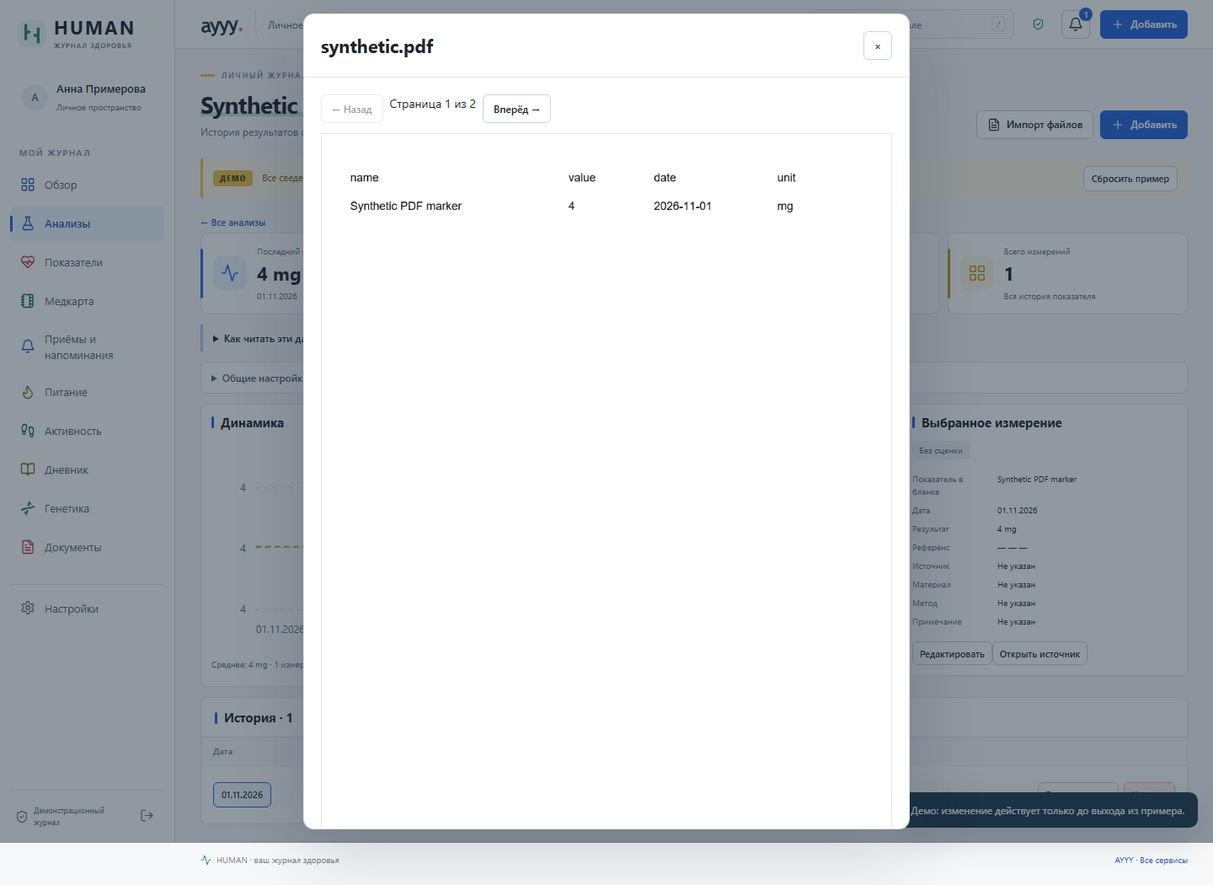
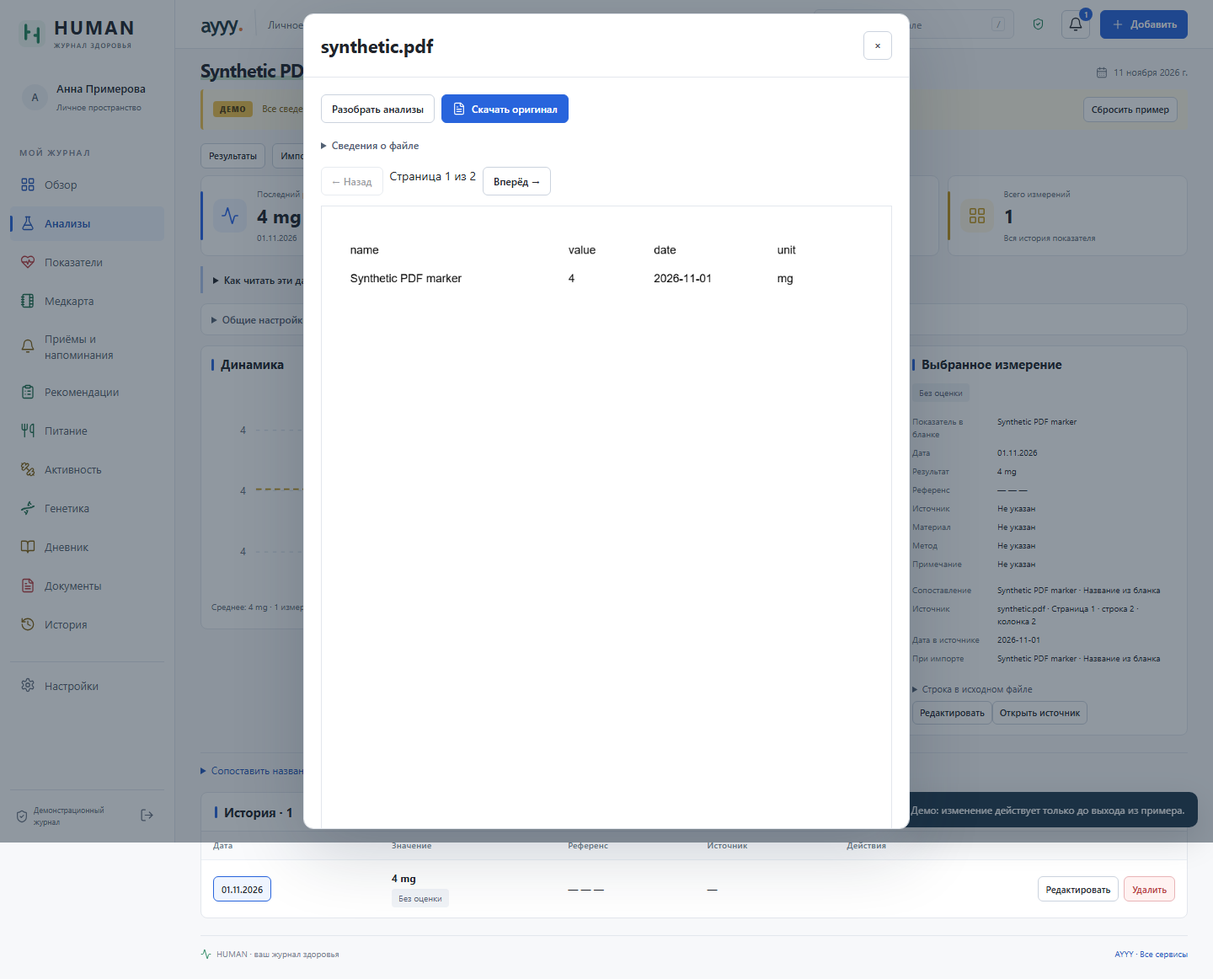
feat(health): import lab results from saved documents

diff --git a/health/import.js b/health/import.js
@@ -4,13 +4,14 @@
  const A=window.HumanAnalytes,T=window.HumanImportTable;
  const fields=[['name','Показатель'],['value','Результат'],['date','Дата'],['unit','Единица'],['low','Референс от'],['high','Референс до'],['source','Лаборатория'],['material','Материал'],['method','Метод'],['notes','Примечание']];
  const aliases={name:['name','показатель','название','анализ'],value:['value','result','результат','значение'],date:['date','дата'],unit:['unit','единица','ед.изм.'],low:['low','min','мин','нижняя граница'],high:['high','max','макс','верхняя граница'],source:['source','laboratory','источник','лаборатория'],material:['material','материал'],method:['method','метод'],notes:['notes','комментарий','примечание']};
- async function open(files,{V,M,dialog,commit,getDoc,isCurrent=()=>true,persistence,saved,notify}){
+ async function open(files,{V,M,dialog,commit,getDoc,isCurrent=()=>true,persistence,saved,sourceDocumentId,notify}){
   if(!files.length&&!saved?.entries.length)return;
   if(files.length>100||files.reduce((size,file)=>size+file.size,0)>128*1024*1024)
    throw Error('Выберите до 100 файлов общим размером до 128 МиБ.');
   const identity=getDoc()?.id;if(!identity)throw Error('Сначала откройте журнал.');
-  const entries=saved?saved.entries.map(({id,name,bytes,parsed,editor})=>parsed
-   ?{id,name,original:{...parsed,name,bytes},editor}:{id,name,file:new File([bytes],name)}):files.map(file=>({id:M.id(),name:file.name,file}));
+  const entries=saved?saved.entries.map(({id,name,bytes,parsed,editor,sourceDocumentId})=>parsed
+   ?{id,name,sourceDocumentId,original:{...parsed,name,bytes},editor}:{id,name,sourceDocumentId,file:new File([bytes],name)}):
+   files.map(file=>({id:M.id(),name:file.name,file,sourceDocumentId}));
   const single=entries.length===1,controller=new AbortController();
   let checkpoint=saved?.checkpoint??null,persisting=false,draftNotice=saved?'Черновик открыт с этого устройства.':'';
   const body=document.getElementById('health-dialog-body');dialog.classList.add('health-import-dialog');
@@ -26,7 +27,7 @@
   const pending=()=>entries.filter(entry=>entry.done==null&&!entry.skipped);
   function draftMetadata(entry){
    const source=entry.original;
-   return {parsed:source?{hash:source.hash,extension:source.extension,tables:source.tables}:null,
+   return {sourceDocumentId:entry.sourceDocumentId,parsed:source?{hash:source.hash,extension:source.extension,tables:source.tables}:null,
     editor:entry.capture?.()??entry.editor??null};
   }
   async function updateCheckpoint(entry,changes=null){
@@ -121,6 +122,13 @@
   let drafts=[],busy=false;
   entry.editor=null;
   const editorState=()=>({sheet,header,mapping:{...mapping},layout,order,fallbackDate,manualMode,manualIds:[...manualIds]});
+  function sourceDocument(doc){
+   if(!entry.sourceDocumentId)return doc.documents.find(file=>file.sha256===original.hash);
+   const selected=doc.documents.find(file=>file.id===entry.sourceDocumentId);
+   if(!selected||(selected.sha256!==original.hash&&!(selected.sha256==null&&typeof selected.data==='string')))
+    throw Error('Выбранный документ удалён или изменился. Откройте документ заново.');
+   return selected;
+  }
   function manualDraft(id,index,imported){
    const importKey=`${original.hash}:${sheet}:manual:${id}`;
    return {item:Object.fromEntries(fields.map(([key])=>[key,''])),manual:index+1,importKey,previousKey:'',
@@ -227,12 +235,12 @@
    }catch(err){error.hidden=false;error.textContent=err.message;}});
   }
   function review(savedRows=[]){
+   const doc=getDoc(),documentId=sourceDocument(doc)?.id;
    const content=frame('Проверка перед сохранением'),error=V.h('p',{class:'error',role:'alert',hidden:true});
    const result=V.h('p',{class:'health-note','data-import-result':true,role:'status',hidden:true});
    navigation(content);
    draftActions(content,()=>!busy);
    const table=original.tables[sheet];
-   const doc=getDoc(),documentId=doc.documents.find(file=>file.sha256===original.hash)?.id;
    let indexOfResults=T.duplicateIndex(doc.observations),coordinates=T.importedCoordinates(doc);
    const choices=[],refreshRows=[],captureRows=[],selection=[];
    const problems=savedRows.map(row=>row?.problem);
@@ -386,7 +394,7 @@
        accepted.push({record,target});
       }
       if(!accepted.length)throw needsReview;
-      let saved=doc.documents.find(d=>d.sha256===original.hash);
+      let saved=sourceDocument(doc);
       if(!saved){
        saved=await stageDocument(attachment,original.bytes);
        doc.documents.push(saved);
@@ -431,6 +439,7 @@
   }
   if(!dialog.open)dialog.showModal();
   if(single)await load(entries[0]);else queue();
+  if(sourceDocumentId&&active())body.querySelector('.health-modal-head button')?.focus();
  }
  window.HumanImport={open};
 })();

diff --git a/health/app.js b/health/app.js
@@ -594,6 +594,7 @@
     const active=sessionFence();
     const file=state.doc.documents.find(x=>x.id===id);if(!file)return;
     const bytes=await documentBytes(file);
+    const checksum=file.sha256||await C.sha256(bytes);
     if(!active()||!state.doc.documents.includes(file))return;
     clearPreview();
     const content=V.h('div',{class:'health-document-preview'});let renderFirst;
@@ -607,7 +608,20 @@
       if(bytes.length>256*1024)content.append(V.h('p',{},'Здесь показано начало файла. Полный текст доступен для скачивания.'));
     }
     else content.append(V.h('p',{},'Скачайте оригинал, чтобы открыть этот формат в программе просмотра.'));
-    content.append(V.h('p',{class:'health-muted'},file.name+' · '+V.date(file.date)+' · '+new Intl.NumberFormat('ru-RU',{maximumFractionDigits:1}).format(file.size/1024)+' КБ'),V.button('Скачать оригинал','file-download',{'data-id':file.id,class:'primary'}));
+    const metadata=V.h('dl',{class:'metadata'});
+    for(const [label,value] of [['Имя файла',file.name],['Дата',V.date(file.date)],['Размер',new Intl.NumberFormat('ru-RU',{maximumFractionDigits:1}).format(file.size/1024)+' КБ'],['Формат',file.mime],['SHA-256',checksum]]){
+      metadata.append(V.h('dt',{},label),V.h('dd',{class:label==='SHA-256'?'hash':null},value));
+    }
+    const importButton=HumanDocuments.importExtension(file.name)?V.button('Разобрать анализы','import-saved-document'):null;
+    importButton?.addEventListener('click',event=>{
+      event.stopPropagation();
+      if(!active()||!dialog.open||!content.isConnected||!state.doc.documents.includes(file))return;
+      clearPreview();
+      const source=new File([bytes],file.name,{type:file.mime});
+      void importDocuments([source],{sourceDocumentId:id}).catch(error);
+    });
+    content.prepend(V.h('div',{class:'actions'},importButton,V.button('Скачать оригинал','file-download',{'data-id':file.id,class:'primary'})),
+      V.h('details',{class:'health-document-metadata'},V.h('summary',{},'Сведения о файле'),metadata));
     document.getElementById('health-dialog-body').replaceChildren(V.h('div',{class:'health-modal-head'},V.h('h2',{},file.title||file.name),returnFinding?V.button('К результату','open-finding',{'data-id':returnFinding,class:'small'}):null,V.button('×','close-dialog',{'aria-label':'Закрыть просмотр'})),V.h('div',{class:'health-modal-content'},content));dialog.showModal();if(renderFirst)await renderFirst();
   }
   dialog.addEventListener('close',clearPreview);
@@ -979,7 +993,7 @@
     finally{if(submit?.isConnected)submit.disabled=false;}
   }
   let importGeneration=0;
-  async function importDocuments(files,restore=false){
+  async function importDocuments(files,{restore=false,sourceDocumentId}={}){
     if((!files.length&&!restore)||!state.doc)return;
     const generation=++importGeneration,tab=state.tab,session=sessionFence();
     const isCurrent=()=>session()&&generation===importGeneration&&state.tab===tab;
@@ -1014,7 +1028,7 @@
         return;
       }
     }
-    await HumanImport.open(files,{V,M,dialog,commit:mutate,getDoc:()=>state.doc,isCurrent,persistence,saved,notify:toast});
+    await HumanImport.open(files,{V,M,dialog,commit:mutate,getDoc:()=>state.doc,isCurrent,persistence,saved,sourceDocumentId,notify:toast});
   }
   async function deleteImportDraft(revision){
     if(!state.key||!state.local||!confirm('Удалить сохранённый черновик и его исходники с этого устройства?'))return;
@@ -1173,7 +1187,7 @@
       else if(action==='file-download')await fileDownload(el.dataset.id);
       else if(action==='file-preview')await previewFile(el.dataset.id,el.dataset.returnFinding||'');
       else if(action==='close-dialog')dialog.close();
-      else if(action==='open-import-draft')await importDocuments([],true);
+      else if(action==='open-import-draft')await importDocuments([],{restore:true});
       else if(action==='delete-import-draft')await deleteImportDraft(el.dataset.revision);
       else if(action==='csv'||action==='capture-import'){
         const active=sessionFence(),tab=state.tab,camera=action==='capture-import';

diff --git a/health/documents.js b/health/documents.js
@@ -91,15 +91,21 @@
  async function renderPDF(bytes,pageNumber=1,options={}){const {document:d,close}=await pdf(bytes);try{if(pageNumber<1||pageNumber>d.numPages)throw Error('Страница PDF не найдена.');const canvas=await pageCanvas(await d.getPage(pageNumber),options);canvas.setAttribute('aria-label','Страница '+pageNumber+' из '+d.numPages);return {canvas,pages:d.numPages};}finally{await close();}}
  async function recognizePDFPage(bytes,pageNumber,options){const {document:d,close}=await pdf(bytes);try{if(pageNumber<1||pageNumber>d.numPages)throw Error('Страница PDF не найдена.');return await scanPage(await d.getPage(pageNumber),pageNumber,options);}finally{await close();}}
  function csvTable(text){const counts={';':0,',':0,'\t':0};let inQuote=false;for(let i=0;i<text.length;i++){const c=text[i];if(c==='"'){if(inQuote&&text[i+1]==='"')i++;else inQuote=!inQuote;}else if(!inQuote){if(c==='\n'||c==='\r')break;if(c in counts)counts[c]++;}}const sep=Object.keys(counts).sort((a,b)=>counts[b]-counts[a])[0];const rows=[];let row=[],field='',quoted=false;for(let i=0;i<text.length;i++){const c=text[i];if(c==='"'){if(quoted&&text[i+1]==='"'){field+='"';i++;}else quoted=!quoted;}else if(c===sep&&!quoted){row.push(field);if(row.length>100)throw Error('Не больше 100 колонок CSV.');field='';}else if(/[\r\n]/.test(c)&&!quoted){if(c==='\r'&&text[i+1]==='\n')i++;row.push(field);if(row.some(x=>x.trim()))rows.push(row);row=[];field='';}else field+=c;}if(quoted)throw Error('Незакрытая кавычка CSV.');row.push(field);if(row.some(x=>x.trim()))rows.push(row);if(rows.length>5001)throw Error('Не больше 5000 строк за импорт.');return [{name:'CSV',rows}];}
- async function read(file,options={}){if(file.size>MAX)throw Error('Не больше 32 МиБ на файл.');const bytes=new Uint8Array(await file.arrayBuffer()),extension=file.name.split('.').pop().toLowerCase();let tables;
+ function importExtension(name){
+  const extension=name.split('.').pop().toLowerCase();
+  return ['xlsx','pdf','csv','png','jpg','jpeg'].includes(extension)?extension:undefined;
+ }
+ async function read(file,options={}){if(file.size>MAX)throw Error('Не больше 32 МиБ на файл.');const extension=importExtension(file.name);
+  if(!extension)throw Error('Выберите PDF, XLSX, CSV, PNG или JPEG.');
+  const bytes=new Uint8Array(await file.arrayBuffer());let tables;
   options.signal?.throwIfAborted();
   if(extension==='xlsx')tables=await xlsx(bytes);else if(extension==='pdf')tables=await pdfTables(bytes,options);else if(extension==='csv')tables=csvTable(decoder.decode(bytes).replace(/^\uFEFF/,''));else if(['png','jpg','jpeg'].includes(extension)){
    const canvas=await HumanOCR.imageCanvas(bytes,extension,options);
    try{tables=[await HumanOCR.recognize(canvas,'Изображение',options)];}
    catch(error){options.signal?.throwIfAborted();tables=[{name:'Изображение',rows:[],ocrError:error.message||'Не удалось распознать изображение.'}];}
-  }else throw Error('Выберите PDF, XLSX, CSV, PNG или JPEG.');
+  }
   options.signal?.throwIfAborted();
   const hash=Array.from(new Uint8Array(await crypto.subtle.digest('SHA-256',bytes)),b=>b.toString(16).padStart(2,'0')).join('');return {bytes,tables,hash,name:file.name,extension};
  }
- window.HumanDocuments={unzip,read,renderPDF,recognizePDFPage,xlsx,csvTable};
+ window.HumanDocuments={unzip,read,renderPDF,recognizePDFPage,xlsx,csvTable,importExtension};
 })();

diff --git a/health/index.html b/health/index.html
@@ -16,7 +16,7 @@
   <link rel="stylesheet" href="./human-care.css?v=ea139e5f6a30">
   <link rel="stylesheet" href="./human-diary.css?v=dae91ec77b80">
   <link rel="stylesheet" href="./human-recommendations.css?v=691d421d05aa">
-  <link rel="stylesheet" href="./human-adapter.css?v=dc5160d4a4ed">
+  <link rel="stylesheet" href="./human-adapter.css?v=0d620e936f81">
   <script src="../assets/portal-visits.js" defer></script>
 </head>
 <body>
@@ -32,7 +32,7 @@
     <div id="health-dialog-body"></div>
   </dialog>
   <div id="health-notice" role="status" aria-live="polite"></div>
-  <script src="./crypto.js?v=9ca0bb5ad95e" defer></script>
+  <script src="./crypto.js?v=88a01f8dc42f" defer></script>
   <script src="./backup.js?v=9147ed6d1178" defer></script>
   <script src="./store.js?v=4dc2557b7729" defer></script>
   <script src="./github.js?v=f7337a9c8afd" defer></script>
@@ -57,10 +57,10 @@
   <script src="./medical-view.js?v=f820199b74fe" defer></script>
   <script src="./demo.js?v=60b64ebc4c56" defer></script>
   <script src="./ocr.js?v=e8f9d44229cc" defer></script>
-  <script src="./documents.js?v=858e3c4c07d7" defer></script>
+  <script src="./documents.js?v=1e3cb3b5275d" defer></script>
   <script src="./import-table.js?v=e50f4b4ad3d7" defer></script>
   <script src="./import-draft.js?v=a2ccc2cabb2b" defer></script>
-  <script src="./import.js?v=93929dae53ae" defer></script>
-  <script src="./app.js?v=421127c119a4" defer></script>
+  <script src="./import.js?v=dfe2982d5b18" defer></script>
+  <script src="./app.js?v=01d213aa9ad2" defer></script>
 </body>
 </html>

diff --git a/src/health-route.js b/src/health-route.js
@@ -19,7 +19,7 @@
   }
   app.register('health',{
     title:'Здоровье',
-    render(){const href=source+'?v=human-e285db92655d'+(app.param==='demo'?'&demo=1':'');return '<iframe class="ayyy-health-frame" id="ayyy-health-frame" title="HUMAN · личный журнал здоровья" src="'+app.escape(href)+'" loading="eager"></iframe>';},
+    render(){const href=source+'?v=human-0e5254c403c2'+(app.param==='demo'?'&demo=1':'');return '<iframe class="ayyy-health-frame" id="ayyy-health-frame" title="HUMAN · личный журнал здоровья" src="'+app.escape(href)+'" loading="eager"></iframe>';},
     mount(){const frame=document.getElementById('ayyy-health-frame');return ()=>{if(frame)frame.src='about:blank';};}
   });
 })();

diff --git a/health/human-adapter.css b/health/human-adapter.css
@@ -60,6 +60,9 @@
 .health-import-draft-actions p{margin:0;overflow-wrap:anywhere}
 .health-dialog:has(.health-pdf-pages){width:min(720px,calc(100vw - 24px))}
 .health-document-preview pre{max-height:55vh;overflow:auto;padding:16px;background:var(--bg);border:1px solid var(--border);border-radius:6px}
+.health-document-metadata{margin:12px 0}
+.health-document-metadata summary{cursor:pointer;font-weight:600}
+.health-document-metadata .metadata{margin-top:10px}
 :root{--ink:var(--text);--canvas:var(--bg);--line:var(--border);--shadow:none}
 body{font-size:14px}
 [hidden]{display:none!important}

diff --git a/index.html b/index.html
@@ -69,7 +69,7 @@
   <script src="src/weather-route.js?v=8ad9e13c3eeb" defer></script>
   <script src="src/games-route.js?v=4cbc8df21424" defer></script>
   <script src="src/family-route.js?v=35310fa1165a" defer></script>
-  <script src="src/health-route.js?v=36f105653354" defer></script>
+  <script src="src/health-route.js?v=dfd553ed3115" defer></script>
   <script src="src/mpp-route.js?v=c21b85a811cf" defer></script>
   <script src="tools/loan-model.js?v=6a32f8e861b0" defer></script>
   <script src="tools/science-model.js?v=3bb101b6cefd" defer></script>

diff --git a/health/crypto.js b/health/crypto.js
@@ -171,5 +171,5 @@
   }
   window.HumanCrypto={FORMAT,MAX_FILE,MAX_FILES,MAX_OBJECTS,MAX_METADATA,FILE_OVERHEAD,
     base64,unbase64,assertEnvelope,assertData,seal,unlock,openWithKey,create,newKey,
-    sealFile,openFile,verifyObject,isHash};
+    sealFile,openFile,verifyObject,isHash,sha256};
 })();

diff --git a/tests/health_documents_browser.py b/tests/health_documents_browser.py
@@ -1,5 +1,5 @@
 """Synthetic local document import, OCR, queue and provenance regression tests."""
-import io, zipfile, mimetypes, base64
+import io, zipfile, mimetypes, base64, hashlib
 from pathlib import Path
 from urllib.parse import urlsplit
 from playwright.sync_api import sync_playwright
@@ -85,6 +85,7 @@ with sync_playwright() as pw:
  p.locator('.group-name').filter(has_text='Synthetic PDF marker').click();p.locator('.analyte-source [data-action=file-preview]').click();p.locator('.health-pdf-pages canvas').wait_for()
  capture(p,path=str(ROOT/'docs/health-ui/pdf-preview-1440.png'),full_page=True)
  check('PDF preview renders locally','Страница 1 из 2' in p.locator('.health-document-preview').inner_text())
+ check('PDF preview can start lab review',p.locator('[data-action=import-saved-document]').is_visible())
  p.get_by_role('button',name='Вперёд →').click();p.get_by_text('Страница 2 из 2',exact=True).wait_for();check('PDF page navigation',p.locator('.health-pdf-pages canvas').count()==1);p.locator('#health-dialog [data-action=close-dialog]').click()
  p.locator('.sidebar button[data-tab=lab]').click()
  matching=b'name;value;date;unit\nSYNTHETIC PDF MARKER;4,00;01.11.2026;mg\n'
@@ -207,10 +208,30 @@ with sync_playwright() as pw:
  check('a camera file saves through the existing document form','synthetic-camera-doc.png' in p.locator('.documents-table').inner_text())
  # The same import runs against an actual encrypted IndexedDB vault.
  v=ctx.new_page();v.on('pageerror',lambda e:errors.append(str(e)));v.goto(BASE+'health/')
- v.locator('[data-form=create] [name=password]').fill('synthetic-document-password');v.locator('[name=repeat]').fill('synthetic-document-password');v.locator('[data-form=create] [type=submit]').click();v.locator('.metric').first.wait_for();v.locator('.sidebar button[data-tab=lab]').click()
- with v.expect_file_chooser() as chooser:v.locator('[data-action=csv]').click()
- chooser.value.set_files({'name':'encrypted-source.csv','mimeType':'text/csv','buffer':b'name;value;date;unit\nSynthetic persisted file;5;2026-11-01;mg'})
- v.locator('[data-form=document-mapping] [type=submit]').click();v.locator('[data-form=document-review] [type=submit]').click();v.locator('#health-dialog').wait_for(state='hidden')
+ v.locator('[data-form=create] [name=password]').fill('synthetic-document-password');v.locator('[name=repeat]').fill('synthetic-document-password');v.locator('[data-form=create] [type=submit]').click();v.locator('.metric').first.wait_for()
+ v.locator('.sidebar button[data-tab=document]').click()
+ source_bytes=b'name;value;date;unit\nSynthetic persisted file;5;2026-11-01;mg'
+ for name,mime,payload in [('encrypted-copy.csv','text/csv',source_bytes),('encrypted-source.CSV','text/csv',source_bytes),('synthetic-note.txt','text/plain',b'Synthetic document without tabular data')]:
+  v.locator('[data-action=new-document]').first.click()
+  v.locator('#health-dialog [name=file]').set_input_files({'name':name,'mimeType':mime,'buffer':payload})
+  v.locator('#health-dialog [type=submit]').click();v.locator('#health-dialog').wait_for(state='hidden')
+ v.get_by_role('button',name='synthetic-note.txt',exact=True).click()
+ v.locator('.health-document-preview pre').wait_for()
+ check('unsupported document formats have no import action',v.locator('[data-action=import-saved-document]').count()==0)
+ v.locator('#health-dialog [data-action=close-dialog]').click()
+ v.get_by_role('button',name='encrypted-source.CSV',exact=True).click()
+ v.get_by_text('Сведения о файле',exact=True).click()
+ check('document details show the original name, format and SHA-256',
+       'encrypted-source.CSV' in v.locator('.health-document-metadata').inner_text() and
+       'text/csv' in v.locator('.health-document-metadata').inner_text() and
+       v.locator('.health-document-metadata .hash').inner_text()==hashlib.sha256(source_bytes).hexdigest())
+ v.locator('[data-action=import-saved-document]').click()
+ v.locator('[data-form=document-mapping] [type=submit]').click()
+ v.locator('[data-action=save-import-draft]').click();v.get_by_text('Черновик зашифрован и сохранён на этом устройстве.',exact=True).wait_for()
+ v.locator('#health-dialog [data-action=close-dialog]').click();v.locator('.sidebar button[data-tab=lab]').click()
+ v.locator('[data-action=open-import-draft]').click()
+ v.locator('[data-form=document-review] [type=submit]').click();v.locator('#health-dialog').wait_for(state='hidden')
+ check('import from a saved document does not create another attachment',v.evaluate('async()=>(await HumanStore.snapshot(await HumanStore.current())).objects.length')==3)
  with v.expect_file_chooser() as chooser:v.locator('[data-action=csv]').click()
  chooser.value.set_files({'name':'encrypted-link.csv','mimeType':'text/csv','buffer':b'name;value;date;unit\nSynthetic persisted file;5.0;2026-11-01;mg'})
  v.locator('[data-form=document-mapping] [type=submit]').click();v.locator('[name=selected]').check()
@@ -218,6 +239,7 @@ with sync_playwright() as pw:
  v.locator('[data-form=document-review] [type=submit]').click();v.locator('#health-dialog').wait_for(state='hidden')
  v.reload();v.locator('[data-form=unlock] [name=passphrase]').fill('synthetic-document-password');v.locator('[data-form=unlock] [type=submit]').click();v.locator('.metric').first.wait_for();v.locator('.sidebar button[data-tab=lab]').click();v.locator('.group-name').click();v.locator('.analyte-source > [data-action=file-preview]').click()
  check('attachment and record link survive encrypted reload','Synthetic persisted file;5;2026-11-01;mg' in v.locator('.health-document-preview pre').inner_text())
+ check('restored import keeps the selected document among identical originals',v.locator('#health-dialog h2').inner_text()=='encrypted-source.CSV')
  v.locator('#health-dialog [data-action=close-dialog]').click();v.get_by_text('Связанные источники (1)',exact=True).click()
  v.locator('.health-linked-sources [data-action=file-preview]').click()
  check('additional source and original bytes survive encrypted reload',v.locator('.analyte-history tbody tr').count()==1 and 'Synthetic persisted file;5.0;2026-11-01;mg' in v.locator('.health-document-preview pre').inner_text())

diff --git a/tests/health_episodes_browser.py b/tests/health_episodes_browser.py
@@ -51,7 +51,7 @@ with sync_playwright() as pw:
  p.locator('.health-vital-summary [data-action=new-vital]').click();choose('type','Сатурация');fill('value','101');p.locator('#health-dialog [type=submit]').click();check('invalid saturation remains unsaved',p.locator('#health-dialog [name=value]').evaluate('(e)=>!e.checkValidity()') and p.locator('#health-dialog').is_visible());fill('value','98');save()
  p.reload();p.locator('[name=passphrase]').fill('synthetic-episode-passphrase');p.locator('[data-form=unlock] [type=submit]').click();p.locator('.metric').first.wait_for();tab('vital');p.locator('[data-action=filter-records][data-value=illness]').click();p.locator('.health-list [data-action=open-episode]').click();check('episode state and links survive encrypted reload','Завершён' in p.locator('.episode-review').inner_text() and '120/80' in p.locator('.episode-measurements').first.inner_text())
  p.locator('.health-list [data-action=remove]').click();p.locator('.health-list [data-action=open-episode]').wait_for(state='hidden');check('deleted episode removed without deleting measurements',p.locator('.health-list [data-action=open-episode]').count()==0);p.locator('[data-action=filter-records][data-value="Давление"]').click();p.locator('.health-list [data-action=open-vital]').click();check('measurement retains unavailable episode reference','недоступен' in p.locator('.health-details').inner_text())
- p.locator('.health-details [data-action=edit]').click();p.evaluate("""async()=>{const peer=new BroadcastChannel('ayyy-health-v1');peer.postMessage({client:'synthetic-other-tab',vaultId:await HumanStore.current()});peer.close();}""");p.locator('[data-form=unlock]').wait_for();check('cross-tab lock closes and clears the patient editor',not p.locator('#health-dialog').is_visible() and p.locator('#health-dialog-body').inner_text()=='')
+ p.locator('.health-details [data-action=edit]').click();p.evaluate("""async()=>{const peer=new BroadcastChannel(HumanCrypto.FORMAT);peer.postMessage({client:'synthetic-other-tab',vaultId:await HumanStore.current()});peer.close();}""");p.locator('[data-form=unlock]').wait_for();check('cross-tab lock closes and clears the patient editor',not p.locator('#health-dialog').is_visible() and p.locator('#health-dialog-body').inner_text()=='')
  p.goto(BASE+'health/?demo=1');p.locator('.metric').first.wait_for();tab('vital');p.locator('[data-action=filter-records][data-value="Давление"]').click();check('demonstration has both pressure series',p.locator('.health-chart polyline').count()==2);capture(p,path=str(ROOT/'docs/health-ui/pressure-1440.png'),full_page=True)
  check('all data stayed local',not remote);check('no runtime errors',not errors);b.close()
 print(len(checks),'episode checks PASS')

diff --git a/docs/HEALTH_HUMAN_UI.md b/docs/HEALTH_HUMAN_UI.md
@@ -20,7 +20,7 @@
 
 В анализах «Снять фото бланка» открывает системный выбор изображения с запросом задней камеры. Форма добавления документа содержит такую же кнопку. В импорте можно открыть оригинал изображения или выбранную страницу PDF, ввести результат вручную и явно отметить строку для записи. У ручного результата сохраняются файл, страница PDF и способ ввода. Если распознавание изображения недоступно, исходник доступен для просмотра и ручного ввода.
 
-Документы ищутся по исходному имени и названию в журнале. Список показывает по 50 файлов, выбранный документ открывается для просмотра в журнале.
+Документы ищутся по исходному имени и названию в журнале. Список показывает по 50 файлов. В просмотре можно открыть сведения о файле, включая SHA-256, скачать оригинал или нажать «Разобрать анализы» для PDF, XLSX, CSV, PNG и JPEG. Результаты связываются с выбранным документом, в том числе после возобновления черновика.
 
 Генетика использует карточки и поля текущих `genetics/GeneticsPage.tsx`, `FindingForm.tsx` и `app/AppDialogs.tsx`. Новые ручные записи содержат результат, поставщика, категорию, метку отчёта, исследование, точность даты, гены, варианты, исходное пояснение, версию метода, URL и документ-источник. Карточки поддерживают поиск по названию/поставщику, категории и страницы по 50 записей. Общий поиск находит также исходные поля и открывает подробности. Исправления сохраняют прежние факты. Неизвестный день/месяц не дополняется; отсутствующие варианты, сборка, strand и генотип не восстанавливаются. Метка «По отчёту: внимание» остаётся сведением поставщика, а не вычисленным заключением. Вложения VCF/JSON показываются как текст и скачиваются побайтово; автоматического разбора генома или клинических выводов нет. Из документа можно вернуться к результату. Внешняя ссылка появляется только после проверки HTTP(S) и не открывается автоматически.
 
@@ -80,7 +80,7 @@ python -X utf8 src/build.py dist/index.html
 
 Opt-in живого теста (только с разрешением владельца): `$env:HEALTH_GITHUB_TEST_REPO='i12309/TEST_TREE'; python -X utf8 tests/health_github_live.py`.
 
-Используются отдельные браузерные контексты и только синтетические данные. Локальные тесты блокируют внешние запросы; живой тест разрешает только API GitHub. Проверки охватывают точность, DST, неизвестные числа, сохранение/перезагрузку, профили, конкурентную запись, XSS в заметках, клавиатуру и ширины 360–1920 px. Базовая матрица Chromium/Firefox/WebKit — 270 проверок 14 экранов на 360/768/1440 px: навигация, подписи полей, клавиатура, отсутствие переполнений/ошибок/сети. Профиль/история/копии/смена фразы — по 49 сценариев в каждом движке. Рекомендации — по 42 сценария в каждом из трёх движков. Для всех сценарных наборов движок выбирает `$env:HEALTH_BROWSER='firefox'` или `'webkit'`, по умолчанию Chromium. Наполненные формы и графики проверены отдельными сценариями в каждом движке. runner запускает 13 наборов: общий интерфейс (116), каталог и импорт анализов, медкарта (35), эпизоды (27), измерения (49), приёмы/напоминания (36), питание/активность (45), генетика (42), документы (67), зашифрованные черновики импорта, хранилище (26), профиль/копии (49), рекомендации (42). `--engine firefox` / `--engine webkit` выбирает движок; повторяемый `--suite` ограничивает запуск нужными наборами. Синтетические снимки сохраняются только Chromium, чтобы параллельные прогоны не перезаписывали друг друга. Проверки удаления дожидаются подтверждённого изменения UI, а не предполагают синхронную запись IndexedDB.
+Используются отдельные браузерные контексты и только синтетические данные. Локальные тесты блокируют внешние запросы; живой тест разрешает только API GitHub. Проверки охватывают точность, DST, неизвестные числа, сохранение/перезагрузку, профили, конкурентную запись, XSS в заметках, клавиатуру и ширины 360–1920 px. Базовая матрица Chromium/Firefox/WebKit — 270 проверок 14 экранов на 360/768/1440 px: навигация, подписи полей, клавиатура, отсутствие переполнений/ошибок/сети. Профиль/история/копии/смена фразы — по 49 сценариев в каждом движке. Рекомендации — по 42 сценария в каждом из трёх движков. Для всех сценарных наборов движок выбирает `$env:HEALTH_BROWSER='firefox'` или `'webkit'`, по умолчанию Chromium. Наполненные формы и графики проверены отдельными сценариями в каждом движке. runner запускает 13 наборов: общий интерфейс (116), каталог и импорт анализов, медкарта (35), эпизоды (27), измерения (49), приёмы/напоминания (36), питание/активность (45), генетика (42), документы (72), зашифрованные черновики импорта, хранилище (26), профиль/копии (49), рекомендации (42). `--engine firefox` / `--engine webkit` выбирает движок; повторяемый `--suite` ограничивает запуск нужными наборами. Синтетические снимки сохраняются только Chromium, чтобы параллельные прогоны не перезаписывали друг друга. Проверки удаления дожидаются подтверждённого изменения UI, а не предполагают синхронную запись IndexedDB.
 
 Снимки: [измерения](health-ui/measurements-1440.png), [измерения на телефоне](health-ui/measurements-390.png), [рекомендации](health-ui/recommendations-1440.png), [рекомендации на телефоне](health-ui/recommendations-390.png), [профиль](health-ui/profile-1440.png), [профиль на телефоне](health-ui/profile-390.png), [история](health-ui/timeline-1440.png), [история на телефоне](health-ui/timeline-390.png), [обзор](health-ui/overview-1440.png), [анализы](health-ui/analyses-1440.png), [медкарта](health-ui/medical-rich-1440.png), [эпизод](health-ui/episode-1440.png), [напоминания](health-ui/care-1440.png), [питание](health-ui/nutrition-1440.png), [питание на телефоне](health-ui/nutrition-390.png), [активность](health-ui/activity-1440.png), [активность на телефоне](health-ui/activity-390.png), [генетика](health-ui/genetics-1440.png), [генетика на телефоне](health-ui/genetics-390.png), [подробности результата](health-ui/genetics-detail-390.png).
 

diff --git a/docs/HUMAN_BROWSER_PORT.md b/docs/HUMAN_BROWSER_PORT.md
@@ -46,6 +46,7 @@
 - [x] Незаконченный импорт сохраняется зашифрованным на устройстве и открывается после повторного входа. Проверены восстановление сопоставления и правок, сохранность исходников, защита от устаревшей вкладки, смена фразы, удаление завершённых файлов из черновика и удаление с локальным журналом.
 - [x] Съёмка бланка из анализов и документа из формы вложений, локальный просмотр исходной страницы PDF или изображения, ручные строки при отсутствии текста или ошибке OCR. Проверены сохранение ручного черновика, привязка исходника и защита от выбора фото после блокировки журнала. Проверки используют синтетические файлы в диалоге выбора изображения.
 - [x] Частичное подтверждение строк и массовый выбор валидных строк таблицы. Неотмеченные строки и строки с ошибками остаются в проверке. Ранее сохранённый зашифрованный черновик обновляется, а сохранённые результаты не дублируются при повторном открытии. Проверено в Chromium, Firefox и WebKit.
+- [x] Разбор анализов из сохранённого документа и сведения о файле с SHA-256. Выбранный источник сохраняется в зашифрованном черновике, а повторное использование документа не создаёт новое вложение. Проверено в Chromium, Firefox и WebKit.
 - [ ] Внешние устройства/сервисы Samsung Health, Xiaomi и ИИ — только при отдельном согласии на конкретную внешнюю обработку.
 - [ ] Независимый аудит безопасности перед использованием для критичных медицинских данных.
 
